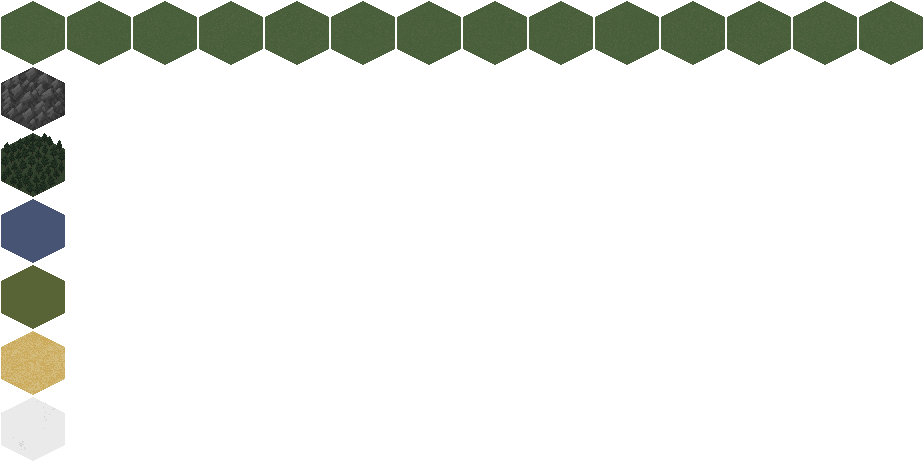
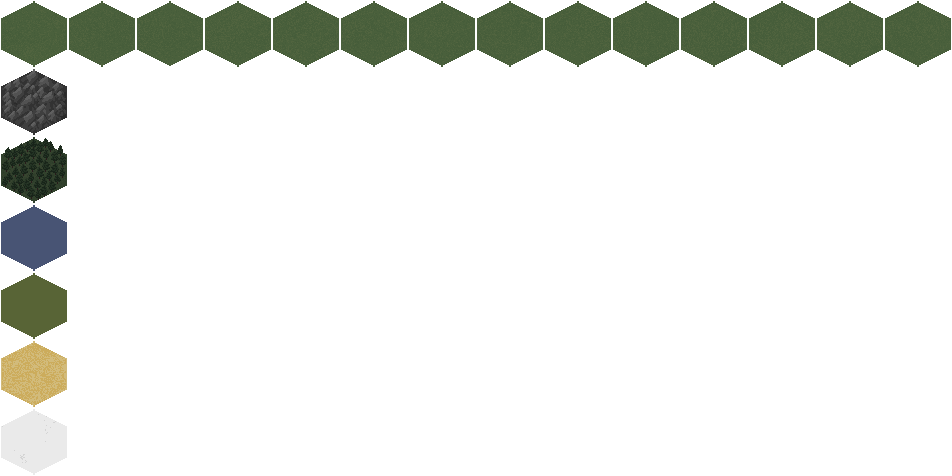
Sprite atlas drawing for terrain! VICTRIX

diff --git a/src/world/managers/map_manager.hpp b/src/world/managers/map_manager.hpp
@@ -89,7 +89,7 @@ public:
           .coords = { x, y },
           .biome = biome,
           .visibility = Tile::Visibility::UNEXPLORED,
-          .texture_key = random_assign_sprite_from_biome( biome ),
+          .texture_i = random_assign_sprite_from_biome( biome ),
         };
 
         tile_map[map_index( x, y )] = std::make_shared<Tile::Component>( tile );
@@ -222,34 +222,59 @@ private:
       }
     }
 
-    // @todo fix this shit
-    // @volatile right now i totally hardcode how many of each terrain sprites there are
-    str random_assign_sprite_from_biome( Biome biome ) {
+    u32 random_assign_sprite_from_biome( Biome biome ) {
       switch ( biome ) {
         case Biome::Desert:
-          return "sand1.png";
-        case Biome::Forest: {
-          u32 r = random_u32_inclmax( 1, 10 );
-          return "forest" + std::to_string( r ) + ".png";
-        }
-        case Biome::Hills: {
-          return "hills1.png";
-        }
+          return 18;
+        case Biome::Hills:
+          return 17;
         case Biome::Mountains:
-          return "mountains1.png";
+          return 14;
         case Biome::Plains: {
-          u32 r = random_u32_inclmax( 1, 14 );
-          return "grass" + std::to_string( r ) + ".png";
+          u32 r = random_u32_inclmax( 0, 13 );
+          return r;
         }
+        case Biome::Forest:
+          return 15;
         case Biome::Sea:
-          return "water1.png";
+          return 16;
         case Biome::Steppe:
-          return "hills1.png";
+          return 19;
         case Biome::Taiga:
+          return 19;
         case Biome::Tundra:
-          return "snow1.png";
+          return 19;
       }
     }
+
+    // @todo fix this shit
+    // @volatile right now i totally hardcode how many of each terrain sprites there are
+    // str random_assign_sprite_from_biome( Biome biome ) {
+    //   switch ( biome ) {
+    //     case Biome::Desert:
+    //       return "sand1.png";
+    //     case Biome::Forest: {
+    //       u32 r = random_u32_inclmax( 1, 10 );
+    //       return "forest" + std::to_string( r ) + ".png";
+    //     }
+    //     case Biome::Hills: {
+    //       return "hills1.png";
+    //     }
+    //     case Biome::Mountains:
+    //       return "mountains1.png";
+    //     case Biome::Plains: {
+    //       u32 r = random_u32_inclmax( 1, 14 );
+    //       return "grass" + std::to_string( r ) + ".png";
+    //     }
+    //     case Biome::Sea:
+    //       return "water1.png";
+    //     case Biome::Steppe:
+    //       return "hills1.png";
+    //     case Biome::Taiga:
+    //     case Biome::Tundra:
+    //       return "snow1.png";
+    //   }
+    // }
 
     Biome determine_biome( f32 elevation, f32 flora ) {
       // else if ( noise >= 0.7f )

diff --git a/src/world/systems/province_system.hpp b/src/world/systems/province_system.hpp
@@ -9,6 +9,49 @@ namespace ProvinceSystem {
 
   inline void SetProvinceOwner( u32 owner );
 
+  inline rect GetTileTextureRect( u32 texture_i ) {
+    f32 offset = 2.0f;
+
+    f32 atlas_slot_w = TILE_WIDTH + ( offset * 2 );
+    f32 atlas_slot_h = TILE_HEIGHT + ( offset * 2 );
+
+    // plains
+    if ( texture_i >= 0 && texture_i <= 13 ) {
+      return {
+        offset + (atlas_slot_w) *texture_i, offset, TILE_WIDTH, TILE_HEIGHT
+      };
+    }
+    // mtns
+    else if ( texture_i == 14 ) {
+      return { offset, offset + atlas_slot_h, TILE_WIDTH, TILE_HEIGHT };
+    }
+    // forrest
+    else if ( texture_i == 15 ) {
+      return { offset, offset + atlas_slot_h * 2, TILE_WIDTH, TILE_HEIGHT };
+    }
+    // sea
+    else if ( texture_i == 16 ) {
+      return { offset, offset + atlas_slot_h * 3, TILE_WIDTH, TILE_HEIGHT };
+    }
+    // hills
+    else if ( texture_i == 17 ) {
+      return { offset, offset + atlas_slot_h * 4, TILE_WIDTH, TILE_HEIGHT };
+    }
+    // desert
+    else if ( texture_i == 18 ) {
+      return { offset, offset + atlas_slot_h * 5, TILE_WIDTH, TILE_HEIGHT };
+    }
+    // tundra
+    else if ( texture_i == 19 ) {
+      return { offset, offset + atlas_slot_h * 6, TILE_WIDTH, TILE_HEIGHT };
+    }
+    // invalid
+    else {
+      // placeholder empty
+      return { 2048.0f, 2048.0f, TILE_WIDTH, TILE_HEIGHT };
+    }
+  }
+
   inline void Init() {
     for ( u32 i = 0; i < MAP_WIDTH * MAP_HEIGHT; i++ ) {
       entt::entity prov_entity = Global::world.create();
@@ -36,10 +79,12 @@ namespace ProvinceSystem {
   }
 
   inline void DrawTileTerrain( Tile::Component tile ) {
-    Texture2D texture =
-      Global::texture_cache[hstr{ tile.texture_key.c_str() }]->texture;
-
-    Rectangle frameRec = { 0.0f, 0.0f, TILE_WIDTH, TILE_HEIGHT };
+    // Texture2D texture =
+    //   Global::texture_cache[hstr{ tile.texture_key.c_str() }]->texture;
+    // Rectangle frameRec = { 0.0f, 0.0f, TILE_WIDTH, TILE_HEIGHT };
+    Texture2D texture = Global::texture_cache[hstr{ "terrain.png" }]->texture;
+    // Rectangle frameRec = { 0.0f, 0.0f, TILE_WIDTH, TILE_HEIGHT };
+    Rectangle frameRec = GetTileTextureRect( tile.texture_i );
 
     // Texture2D snow_tile = cache[hstr{ "snow_tile" }]->texture;
     // DrawTextureRec(hex, {frameRec.x + 520.0f, frameRec.y, frameRec.width, frameRec.height}, tile.position, WHITE);

diff --git a/src/assets.hpp b/src/assets.hpp
@@ -116,7 +116,13 @@ inline void LoadAssets() {
   //   LoadFont( ( asset_folder + "/fonts/Perfect-DOS-VGA-437.png" ).c_str() )
   // );
 
-  load_all_in_folder( asset_folder + "/images/hexagons" );
+  // load_all_in_folder( asset_folder + "/images/hexagons" );
+
+  LoadAsset(
+    hstr{ "terrain.png" },
+    LoadImage( ( asset_folder + "/images/terrain.png" ).c_str() ),
+    Global::texture_cache
+  );
 
   create_hex_texture( hstr{ "red_overlay" }, RED, Global::texture_cache );
   create_hex_texture( hstr{ "cyan_overlay" }, BLUE, Global::texture_cache );

diff --git a/src/world/components/tile_component.hpp b/src/world/components/tile_component.hpp
@@ -27,7 +27,8 @@ namespace Tile {
     vec2u coords;
     Biome biome;
     Visibility visibility;
-    str texture_key;
+    // str texture_key;
+    u32 texture_i;
 
     template<class Archive>
     void serialize( Archive &ar ) {
@@ -43,7 +44,7 @@ namespace Tile {
         coords.y,
         biome,
         visibility,
-        texture_key
+        texture_i
       );
     }
   };
